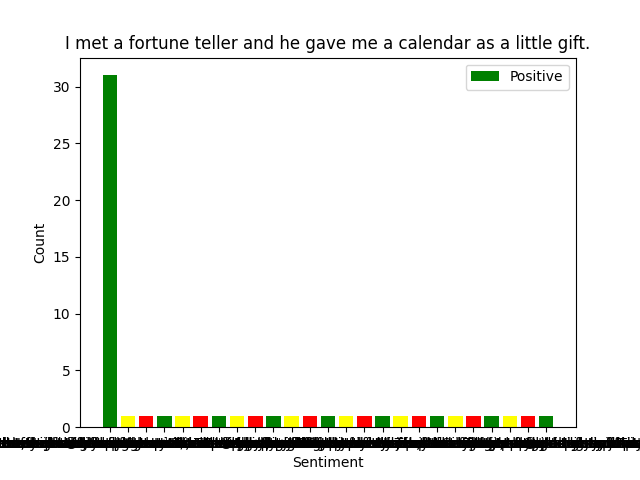
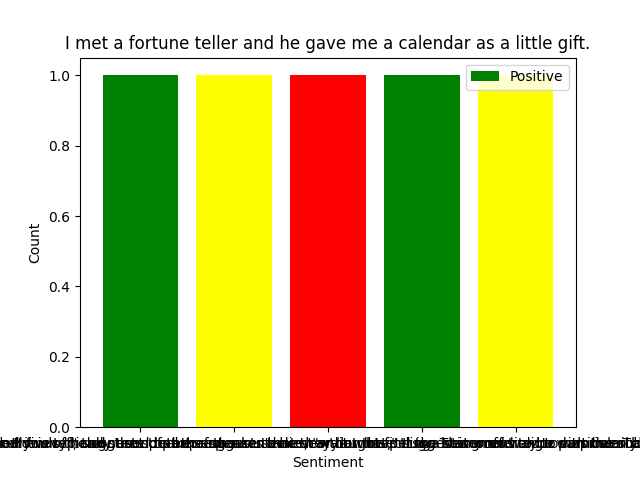
project 6 update

diff --git a/CS325_p3/MakePlots/makePlots.py b/CS325_p3/MakePlots/makePlots.py
@@ -3,12 +3,28 @@ import pandas as pd
 import matplotlib.pyplot as plt
 
 def read_sentiment_file(sentiment_file):
-    # Read sentiment file into a pandas dataframe
     with open(sentiment_file, 'r', encoding='utf-8') as file:
         lines = file.readlines()
 
-    # Assuming sentiments are one per line in the file
-    df = pd.DataFrame({'Sentiment': lines})
+    sentiments = []
+    current_sentiment = None
+
+    for line in lines:
+        # Check for the presence of sentiment information
+        if 'Sentiment:' in line:
+            # Start capturing the sentiment from this line
+            current_sentiment = [line.split("Sentiment:")[1].strip()]
+        elif 'Comment:' in line and current_sentiment:
+            # If a new comment is listed, store the current sentiment
+            sentiments.extend(current_sentiment)
+            current_sentiment = None  # Reset current sentiment
+
+    # Add the last captured sentiment
+    if current_sentiment:
+        sentiments.extend(current_sentiment)
+
+    # Create a DataFrame from the list of sentiments
+    df = pd.DataFrame({'Sentiment': sentiments})
 
     return df
 
